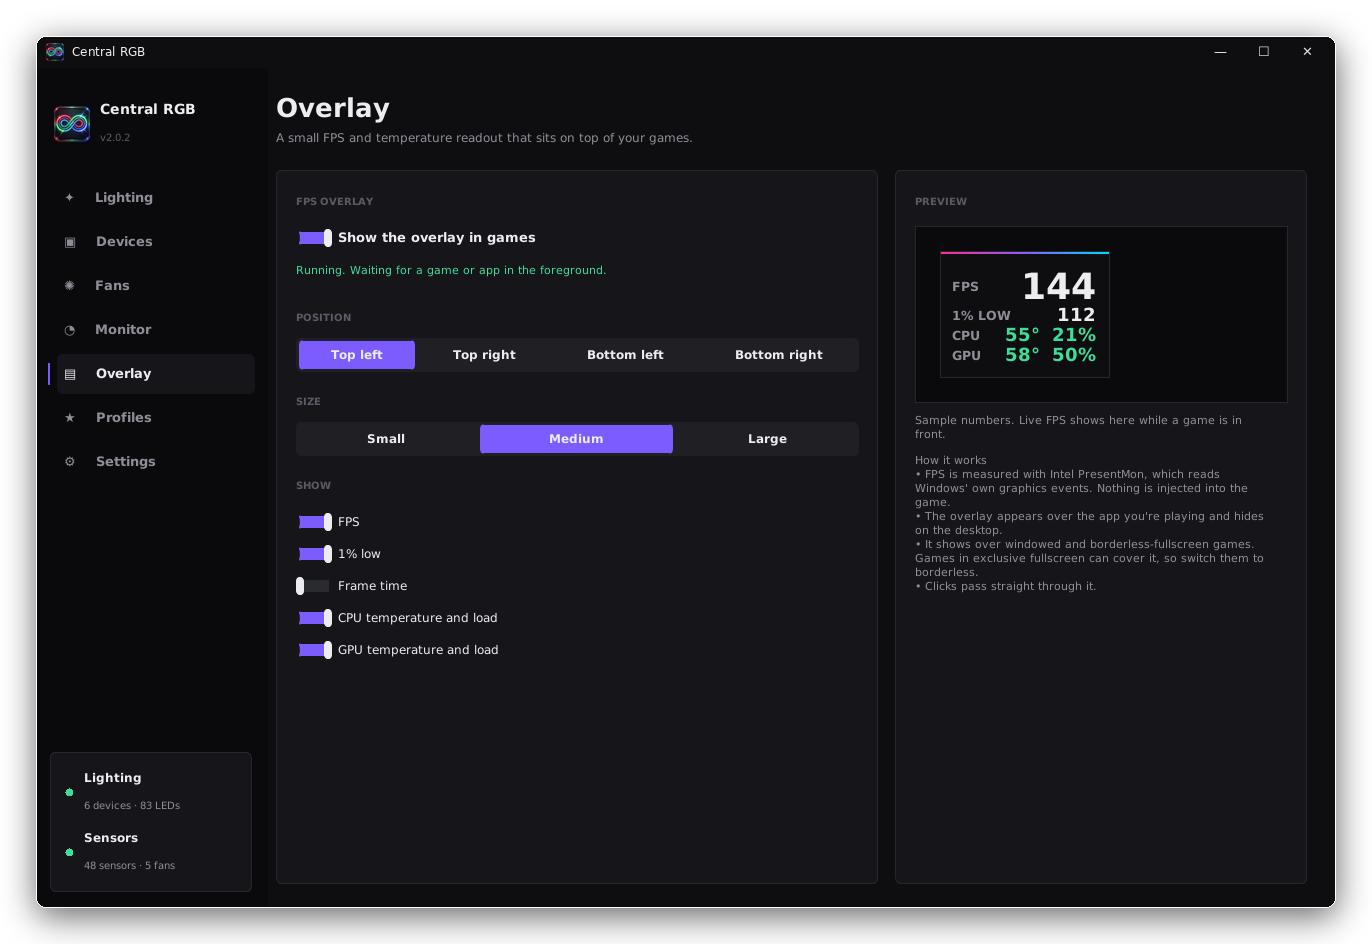
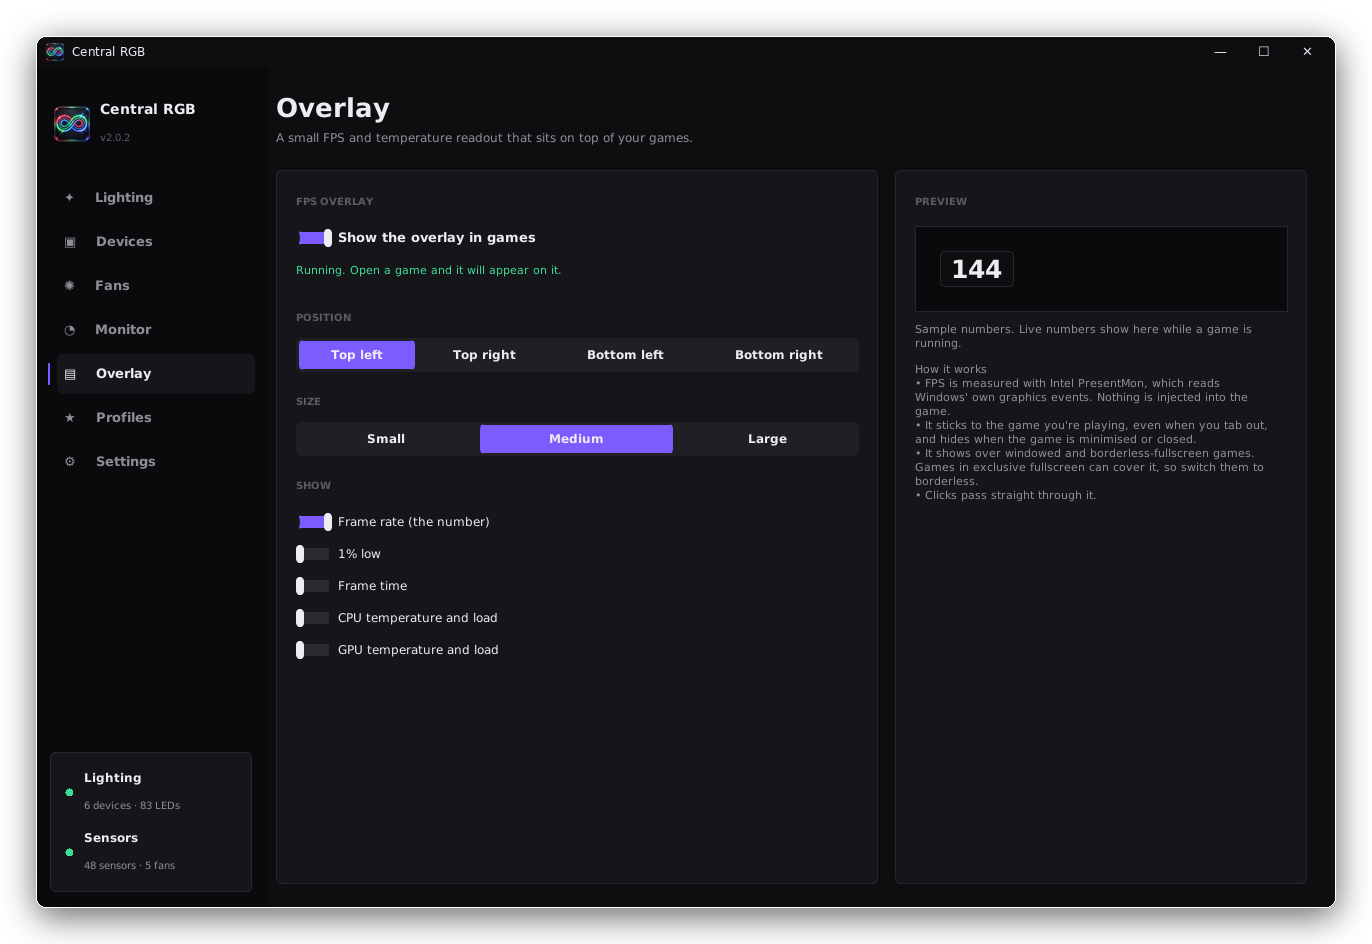
FPS overlay: stay on the game when tabbing out, compact number-only design
- Overlay locks onto the game and is pinned to a corner of the game's window
- Tabbing out keeps it on the game (just above the game window, not over other apps)
- Hides when the game is minimised or closed; shows the last number dimmed if the game pauses
- New sleek pill: the frame rate as a plain number, optional extras in small text beside it
- Number-only by default

diff --git a/fps_overlay.py b/fps_overlay.py
@@ -42,17 +42,19 @@ IGNORED = {"dwm.exe", "explorer.exe", "central rgb.exe", "searchhost.exe", "shel
 
 CORNERS = ["Top left", "Top right", "Bottom left", "Bottom right"]
 SIZES = {"Small": 0.8, "Medium": 1.0, "Large": 1.3}
-ITEMS = [("fps", "FPS"), ("low", "1% low"), ("frametime", "Frame time"),
+ITEMS = [("fps", "Frame rate (the number)"), ("low", "1% low"), ("frametime", "Frame time"),
          ("cpu", "CPU temperature and load"), ("gpu", "GPU temperature and load")]
 DEFAULTS = {"enabled": False, "corner": "Top left", "size": "Medium",
-            "items": {"fps": True, "low": True, "frametime": False, "cpu": True, "gpu": True}}
+            "items": {"fps": True, "low": False, "frametime": False, "cpu": False, "gpu": False}, "style": 2}
 
 
 def overlay_settings(settings) -> dict:
     cfg = json.loads(json.dumps(DEFAULTS))
     saved = settings.data.get("overlay") or {}
     cfg.update({k: v for k, v in saved.items() if k != "items"})
-    cfg["items"].update(saved.get("items") or {})
+    if saved.get("style") == 2:          # older settings switch to the new number-only default once
+        cfg["items"].update(saved.get("items") or {})
+    cfg["style"] = 2
     return cfg
 
 
@@ -66,6 +68,45 @@ def foreground_pid() -> int:
         return int(pid.value)
     except Exception:
         return 0
+
+
+def foreground_window() -> tuple[int, int]:
+    """(window handle, process id) of the window in front."""
+    if not eng.IS_WIN:
+        return 0, 0
+    try:
+        hwnd = ctypes.windll.user32.GetForegroundWindow()
+        pid = ctypes.c_ulong(0)
+        ctypes.windll.user32.GetWindowThreadProcessId(hwnd, ctypes.byref(pid))
+        return int(hwnd), int(pid.value)
+    except Exception:
+        return 0, 0
+
+
+class _RECT(ctypes.Structure):
+    _fields_ = [("left", ctypes.c_long), ("top", ctypes.c_long), ("right", ctypes.c_long), ("bottom", ctypes.c_long)]
+
+
+def game_window_state(hwnd: int):
+    """Screen rectangle (x, y, w, h) of the game's drawing area, 'minimized', or None if the window is gone."""
+    if not eng.IS_WIN or not hwnd:
+        return None
+    u = ctypes.windll.user32
+    try:
+        if not u.IsWindow(hwnd):
+            return None
+        if u.IsIconic(hwnd):
+            return "minimized"
+        r = _RECT()
+        u.GetClientRect(hwnd, ctypes.byref(r))
+        pt = (ctypes.c_long * 2)(0, 0)
+        u.ClientToScreen(hwnd, ctypes.byref(pt))
+        w, h = r.right - r.left, r.bottom - r.top
+        if w < 200 or h < 150:
+            return None
+        return pt[0], pt[1], w, h
+    except Exception:
+        return None
 
 
 def frame_stats(frames, now, window=1.0, low_window=10.0):
@@ -200,6 +241,13 @@ class FpsCounter:
                 dq.append((now, ms))
 
     # ---------------- reading
+    def alive(self, pid) -> bool:
+        """True while this process has drawn a frame in the last 15 seconds."""
+        now = time.monotonic()
+        with self.lock:
+            dq = self.frames.get(pid)
+            return bool(dq) and now - dq[-1][0] <= 15
+
     def current(self, pid=None):
         """Stats for the foreground app: {'name', 'fps', 'low', 'ms'} or None when it isn't rendering."""
         pid = foreground_pid() if pid is None else pid
@@ -221,18 +269,30 @@ class FpsCounter:
 
 # ============================================================================ visuals
 class OverlayPanel(tk.Canvas):
-    """Compact stats panel. `colors` = dict(bg, line, text, muted, grad=(c1, c2, c3), ok, warn, bad)."""
+    """Small, sleek pill: the frame rate as a bare number, optional extras in small text beside it.
+    `colors` = dict(bg, line, text, muted, ok, warn, bad); `outer` is the colour around the pill."""
 
-    def __init__(self, master, colors, font, scale=1.0):
-        super().__init__(master, bg=colors["bg"], highlightthickness=1, highlightbackground=colors["line"])
+    def __init__(self, master, colors, font, scale=1.0, outer=None):
+        self.outer = outer or colors["bg"]
+        super().__init__(master, bg=self.outer, highlightthickness=0)
         self.c, self.font, self.scale = colors, font, scale
-        self.rows = []
+        self._fonts = {}
 
-    def render(self, cfg, fps=None, metrics=None):
-        """fps: dict from FpsCounter.current() (or None); metrics: hardware monitor metrics dict."""
+    def _font(self, size, weight):
+        import tkinter.font as tkfont
+        key = (size, weight)
+        if key not in self._fonts:
+            self._fonts[key] = tkfont.Font(root=self, family=self.font, size=size, weight=weight)
+        return self._fonts[key]
+
+    def _pill(self, w, h, r, fill, outline):
+        pts = [r, 0, w - r, 0, w, 0, w, r, w, h - r, w, h, w - r, h, r, h, 0, h, 0, h - r, 0, r, 0, 0]
+        self.create_polygon(pts, smooth=True, fill=fill, outline=outline)
+
+    def render(self, cfg, fps=None, metrics=None, stale=False):
+        """fps: dict from FpsCounter.current() (or None); metrics: hardware monitor metrics."""
         c, s, m = self.c, self.scale * SIZES.get(cfg.get("size"), 1.0), metrics or {}
         items = cfg.get("items", {})
-        rows = []   # (label, value, value_color, big)
 
         def tcol(t):
             return c["text"] if t is None else c["ok"] if t < 65 else c["warn"] if t < 82 else c["bad"]
@@ -240,91 +300,122 @@ class OverlayPanel(tk.Canvas):
         def num(v, unit="", nd=0):
             return "—" if v is None else f"{v:.{nd}f}{unit}"
 
-        if items.get("fps"):
-            rows.append(("FPS", num(fps["fps"]) if fps else "—", c["text"], True))
+        extras = []   # list of [(text, colour), ...] segments
         if items.get("low"):
-            rows.append(("1% LOW", num(fps["low"]) if fps else "—", c["muted"] if not fps else c["text"], False))
+            extras.append([(num(fps["low"]) if fps else "—", c["text"]), (" low", c["muted"])])
         if items.get("frametime"):
-            rows.append(("FRAME", num(fps["ms"], " ms", 1) if fps else "—", c["text"], False))
+            extras.append([(num(fps["ms"], "", 1) if fps else "—", c["text"]), (" ms", c["muted"])])
         if items.get("cpu"):
-            rows.append(("CPU", f"{num(m.get('cpu_temp'), '°')}  {num(m.get('cpu_load'), '%')}", tcol(m.get("cpu_temp")), False))
+            extras.append([("CPU ", c["muted"]), (num(m.get("cpu_temp"), "°"), tcol(m.get("cpu_temp")))])
         if items.get("gpu"):
-            rows.append(("GPU", f"{num(m.get('gpu_temp'), '°')}  {num(m.get('gpu_load'), '%')}", tcol(m.get("gpu_temp")), False))
-        if not rows:
-            rows.append(("FPS", "—", c["text"], True))
+            extras.append([("GPU ", c["muted"]), (num(m.get("gpu_temp"), "°"), tcol(m.get("gpu_temp")))])
+        show_fps = items.get("fps") or not extras
 
+        big = self._font(max(10, int(18 * s)), "bold")
+        small = self._font(max(7, int(9 * s)), "bold")
+        padx, gap = int(11 * s), int(9 * s)
+        h = int(big.metrics("linespace") * 0.92) + int(8 * s)
+        x = padx
         self.delete("all")
-        pad, w = int(12 * s), int(168 * s)
-        y = int(4 * s) + pad
-        n = 24
-        for i in range(n):   # gradient strip along the top
-            t = i / (n - 1) * (len(c["grad"]) - 1)
-            a, b = c["grad"][min(int(t), len(c["grad"]) - 2)], c["grad"][min(int(t), len(c["grad"]) - 2) + 1]
-            k = t - min(int(t), len(c["grad"]) - 2)
-            col = "#%02x%02x%02x" % tuple(int(int(a[j:j + 2], 16) + (int(b[j:j + 2], 16) - int(a[j:j + 2], 16)) * k) for j in (1, 3, 5))
-            self.create_rectangle(i * w / n, 0, (i + 1) * w / n + 1, int(3 * s), width=0, fill=col)
-        for label, value, col, big in rows:
-            size = int((26 if big else 13) * s)
-            h = int(size * 1.45)
-            self.create_text(pad, y + h / 2, text=label, anchor="w", fill=c["muted"], font=(self.font, max(7, int(9 * s)), "bold"))
-            self.create_text(w - pad, y + h / 2, text=value, anchor="e", fill=col, font=(self.font, size, "bold"))
-            y += h + int(2 * s)
-        height = y + pad - int(2 * s)
-        self.configure(width=w, height=height)
-        return w + 2, height + 2
+        parts = []
+        if show_fps:
+            value = num(fps["fps"]) if fps else "—"
+            parts.append((x, value, big, c["muted"] if stale else c["text"]))
+            x += big.measure(value) + gap
+        for segs in extras:
+            for text, col in segs:
+                parts.append((x, text, small, col))
+                x += small.measure(text)
+            x += gap
+        w = max(x - gap + padx, h)
+        self._pill(w, h, min(h // 2, int(10 * s)), c["bg"], c["line"])
+        for px, text, f, col in parts:
+            self.create_text(px, h / 2, text=text, anchor="w", fill=col, font=f)
+        self.configure(width=w + 1, height=h + 1)
+        return w + 1, h + 1
 
 
 class OverlayWindow(tk.Toplevel):
-    """Always-on-top, click-through window. Works over windowed and borderless-fullscreen games."""
-    MARGIN = 18
+    """Click-through window pinned to a corner of the game's window.
+    In front of the game while you play; when you tab out it stays on the game (just above it,
+    not on top of every other app) and hides when the game is minimised or closed."""
+    MARGIN = 12
+    KEY = "#010102"          # transparent colour around the rounded pill (Windows)
 
     def __init__(self, root, colors, font):
         super().__init__(root)
         self.withdraw()
         self.overrideredirect(True)
-        self.configure(bg=colors["bg"])
-        self.panel = OverlayPanel(self, colors, font)
+        outer = self.KEY if eng.IS_WIN else colors["bg"]
+        self.configure(bg=outer)
+        self.panel = OverlayPanel(self, colors, font, outer=outer)
         self.panel.pack()
         try:
-            self.attributes("-topmost", True)
-            self.attributes("-alpha", 0.88)
+            if eng.IS_WIN:
+                self.attributes("-transparentcolor", self.KEY)
+            self.attributes("-alpha", 0.9)
         except tk.TclError:
             pass
         self._styled = False
         self.shown = False
+        self.hwnd = 0
 
     def _click_through(self):
         if self._styled or not eng.IS_WIN:
             return
         try:
             user32 = ctypes.windll.user32
-            hwnd = user32.GetParent(self.winfo_id()) or self.winfo_id()
+            self.hwnd = user32.GetParent(self.winfo_id()) or self.winfo_id()
             GWL_EXSTYLE = -20
-            style = user32.GetWindowLongW(hwnd, GWL_EXSTYLE)
+            style = user32.GetWindowLongW(self.hwnd, GWL_EXSTYLE)
             # layered + transparent (clicks pass through) + tool window (no taskbar button) + never takes focus
-            user32.SetWindowLongW(hwnd, GWL_EXSTYLE, style | 0x80000 | 0x20 | 0x80 | 0x08000000)
+            user32.SetWindowLongW(self.hwnd, GWL_EXSTYLE, style | 0x80000 | 0x20 | 0x80 | 0x08000000)
             self._styled = True
         except Exception:
             pass
 
-    def update_overlay(self, cfg, fps, metrics, always_show=False):
-        if fps is None and not always_show:
-            if self.shown:
-                self.withdraw()
-                self.shown = False
+    def hide(self):
+        if self.shown:
+            self.withdraw()
+            self.shown = False
+
+    def _stack(self, game_hwnd, game_in_front):
+        """Keep the overlay directly above the game window."""
+        if not eng.IS_WIN or not self.hwnd:
+            try:
+                self.attributes("-topmost", True)
+            except tk.TclError:
+                pass
             return
-        w, h = self.panel.render(cfg, fps, metrics)
-        sw, sh = self.winfo_screenwidth(), self.winfo_screenheight()
+        u = ctypes.windll.user32
+        flags = 0x0001 | 0x0002 | 0x0010   # SWP_NOSIZE | SWP_NOMOVE | SWP_NOACTIVATE
+        try:
+            if game_in_front:
+                u.SetWindowPos(self.hwnd, -1, 0, 0, 0, 0, flags)               # HWND_TOPMOST
+            else:
+                u.SetWindowPos(self.hwnd, -2, 0, 0, 0, 0, flags)               # HWND_NOTOPMOST
+                above = u.GetWindow(game_hwnd, 3)                              # GW_HWNDPREV: window just above the game
+                if above and above != self.hwnd:
+                    u.SetWindowPos(self.hwnd, above, 0, 0, 0, 0, flags)        # slot in just below it = just above the game
+                elif not above:
+                    u.SetWindowPos(self.hwnd, 0, 0, 0, 0, 0, flags)            # game is on top: go above it
+        except Exception:
+            pass
+
+    def update_overlay(self, cfg, fps, metrics, game_hwnd=0, game_in_front=True, stale=False):
+        rect = game_window_state(game_hwnd) if eng.IS_WIN else (0, 0, self.winfo_screenwidth(), self.winfo_screenheight())
+        if rect is None or rect == "minimized":
+            self.hide()
+            return
+        gx, gy, gw, gh = rect
+        w, h = self.panel.render(cfg, fps, metrics, stale=stale)
         corner = cfg.get("corner", "Top left")
-        x = self.MARGIN if "left" in corner else sw - w - self.MARGIN
-        y = self.MARGIN if "Top" in corner else sh - h - self.MARGIN - 48
+        x = gx + self.MARGIN if "left" in corner else gx + gw - w - self.MARGIN
+        y = gy + self.MARGIN if "Top" in corner else gy + gh - h - self.MARGIN
         self.geometry(f"{w}x{h}+{x}+{y}")
         if not self.shown:
             self.deiconify()
             self.shown = True
             self.update_idletasks()
             self._click_through()
-        try:
-            self.attributes("-topmost", True)     # games can push other windows down; keep re-asserting
-        except tk.TclError:
-            pass
+        self._stack(game_hwnd, game_in_front)

diff --git a/central_rgb.py b/central_rgb.py
@@ -1412,14 +1412,14 @@ class App(ctk.CTk):
         self.caption(right, "Preview").pack(fill="x", padx=20, pady=(18, 10))
         stage = tk.Frame(right, bg=P["SIDE"], highlightthickness=1, highlightbackground=P["LINE"])
         stage.pack(fill="x", padx=20)
-        self.overlay_preview = fpo.OverlayPanel(stage, self._overlay_colors(), FONT)
+        self.overlay_preview = fpo.OverlayPanel(stage, self._overlay_colors(), FONT, outer=P["SIDE"])
         self.overlay_preview.pack(padx=24, pady=24, anchor="w")
         self.overlay_preview_note = self.label(right, "", 11, color=P["MUTED"], anchor="w", justify="left", wraplength=360)
         self.overlay_preview_note.pack(fill="x", padx=20, pady=(10, 4))
         self.label(right, "How it works\n"
                           "• FPS is measured with Intel PresentMon, which reads Windows' own graphics events. "
                           "Nothing is injected into the game.\n"
-                          "• The overlay appears over the app you're playing and hides on the desktop.\n"
+                          "• It sticks to the game you're playing, even when you tab out, and hides when the game is minimised or closed.\n"
                           "• It shows over windowed and borderless-fullscreen games. Games in exclusive "
                           "fullscreen can cover it, so switch them to borderless.\n"
                           "• Clicks pass straight through it.",
@@ -1449,30 +1449,48 @@ class App(ctk.CTk):
                 self.overlay_win = None
 
     def _overlay_tick(self):
+        """Follow the game: pick the app you're playing, then keep the overlay on it even after you tab out."""
         try:
             cfg, metrics = self.overlay_cfg, self.snap.get("metrics", {})
-            fps = self.fps.current() if (cfg["enabled"] and self.fps.status == "running") else None
-            if cfg["enabled"]:
+            running = cfg["enabled"] and self.fps.status == "running"
+            fps, stale = None, False
+            if running:
+                fg_hwnd, fg_pid = fpo.foreground_window()
+                if fg_pid and fg_pid != getattr(self, "_game_pid", None) and self.fps.current(fg_pid):
+                    self._game_pid, self._game_hwnd, self._game_last = fg_pid, fg_hwnd, None   # a new game is in front
+                pid = getattr(self, "_game_pid", None)
+                if pid and (not self.fps.alive(pid) or fpo.game_window_state(self._game_hwnd) is None and eng.IS_WIN):
+                    self._game_pid = pid = None                                              # game closed
+                if pid:
+                    fps = self.fps.current(pid)
+                    if fps:
+                        self._game_last = fps
+                    else:                         # backgrounded games often pause drawing: keep the last number, dimmed
+                        fps, stale = self._game_last, True
+            if cfg["enabled"] and running and getattr(self, "_game_pid", None):
                 if self.overlay_win is None:
                     self.overlay_win = fpo.OverlayWindow(self, self._overlay_colors(), FONT)
-                self.overlay_win.update_overlay(cfg, fps, metrics)
+                in_front = fpo.foreground_window()[1] == self._game_pid
+                self.overlay_win.update_overlay(cfg, fps, metrics, self._game_hwnd, in_front, stale)
+            elif self.overlay_win is not None:
+                self.overlay_win.hide()
             if self.current_page == "Overlay":
                 sample = fps or {"name": "", "fps": 144, "low": 112, "ms": 6.9}
                 self.overlay_preview.render(cfg, sample, metrics)
                 self.overlay_preview_note.configure(
-                    text=f"Live: {fps['name']}" if fps else "Sample numbers. Live FPS shows here while a game is in front.")
+                    text=f"Live: {fps['name']}" if fps else "Sample numbers. Live numbers show here while a game is running.")
                 st = self.fps.status
                 self.overlay_status.configure(
                     text={"off": "Off", "starting": "Starting the FPS counter (first time downloads PresentMon)…",
                           "running": (f"Tracking {fps['name']}: {fps['fps']:.0f} FPS" if fps else
-                                      "Running. Waiting for a game or app in the foreground."),
+                                      "Running. Open a game and it will appear on it."),
                           "error": self.fps.message}.get(st, ""),
                     text_color=BAD if st == "error" else OK if st == "running" else P["MUTED"])
         except tk.TclError:
             pass
         except Exception:
             traceback.print_exc()
-        self.after(300, self._overlay_tick)
+        self.after(250, self._overlay_tick)
 
     # ---------------------------------------------------------------- Profiles
     def _page_profiles(self, p):

diff --git a/README.md b/README.md
@@ -214,7 +214,7 @@ EMERGENCY_TEMP = 90   # CPU or GPU at 90 °C or more -> every fan to 100 %
 | Fans | Profiles, custom curve, live CPU and GPU temperatures, a manual slider per fan (tap **MANUAL ↺** to go back to the curve) |
 | Monitor → Overview | CPU / GPU / RAM gauges and graphs, network up/down, drive usage, uptime, power draw |
 | Monitor → Advanced | Search and filter every sensor, copy full system details to the clipboard |
-| Overlay | Turn on the in-game overlay, choose its corner and size, and pick what it shows (FPS, 1% low, frame time, CPU, GPU). It works over windowed and borderless-fullscreen games; exclusive fullscreen can cover it. |
+| Overlay | A small pill that shows your frame rate as a plain number, pinned to a corner of the game window. It stays on the game when you tab out and hides when the game is minimized or closed. Optional extras: 1% low, frame time, CPU and GPU temperature. Works over windowed and borderless-fullscreen games; exclusive fullscreen can cover it. |
 | Profiles | Save the current look under a name, then load or delete it later |
 | Settings | System check, accent color (Central or match lighting), startup animation, RAM temperature reading, start with Windows, reapply lighting on launch, activity log |
 
